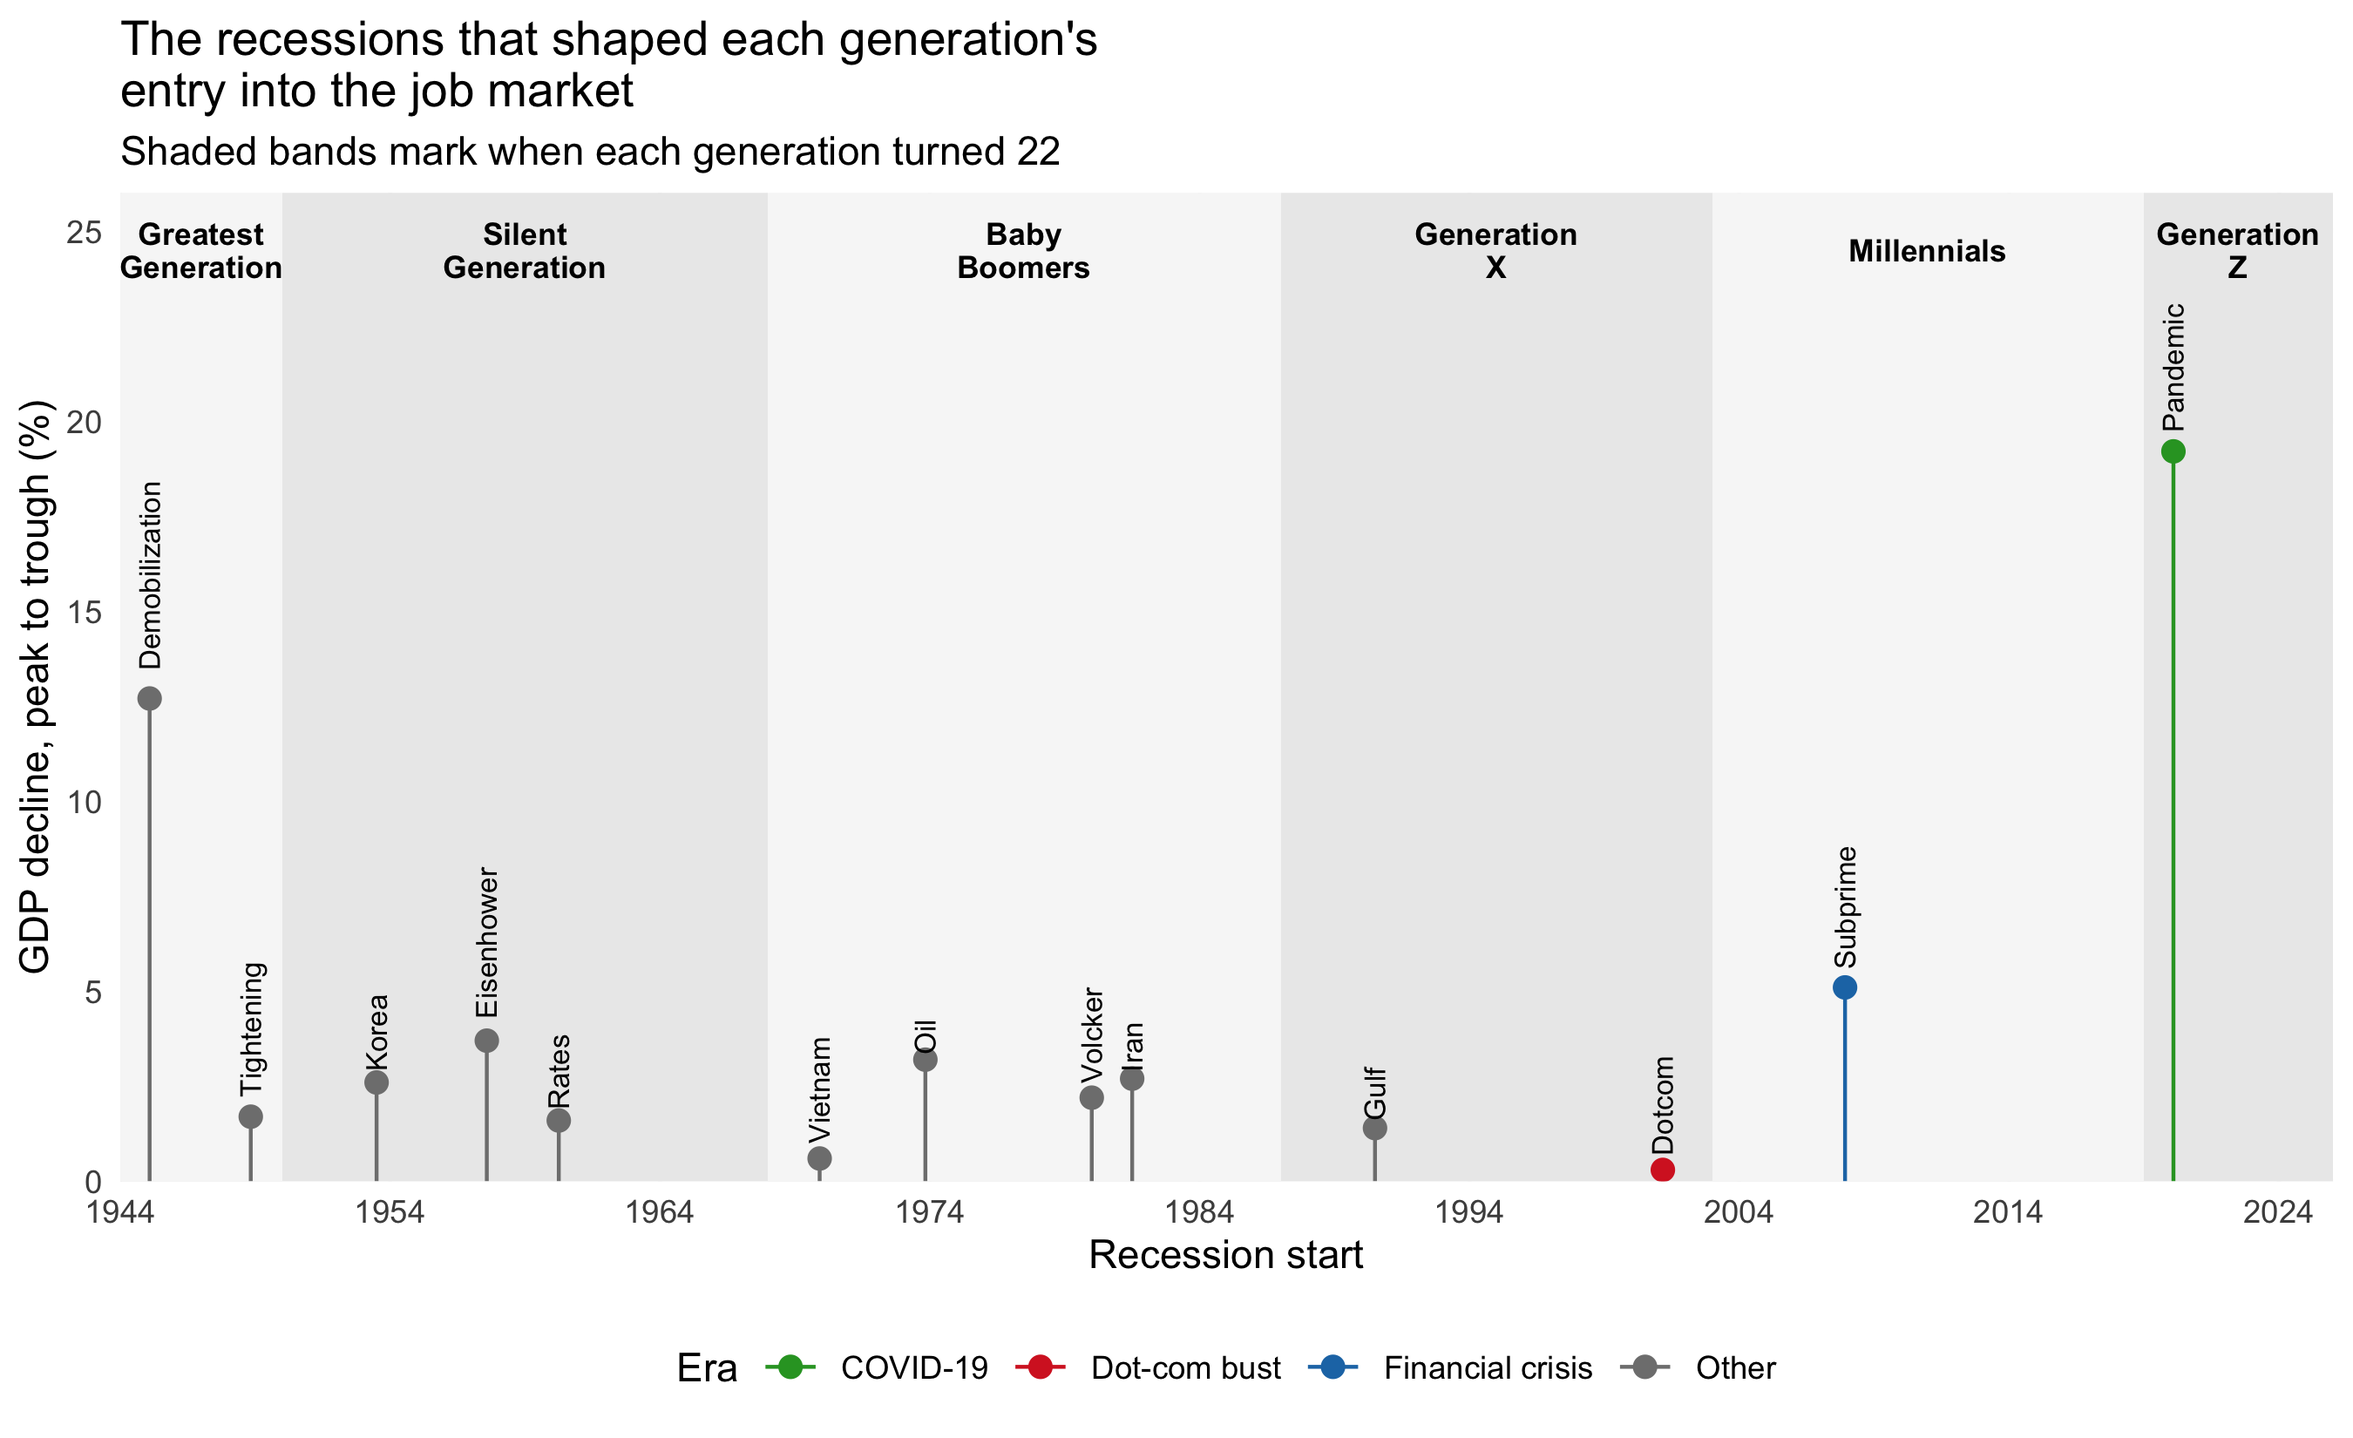
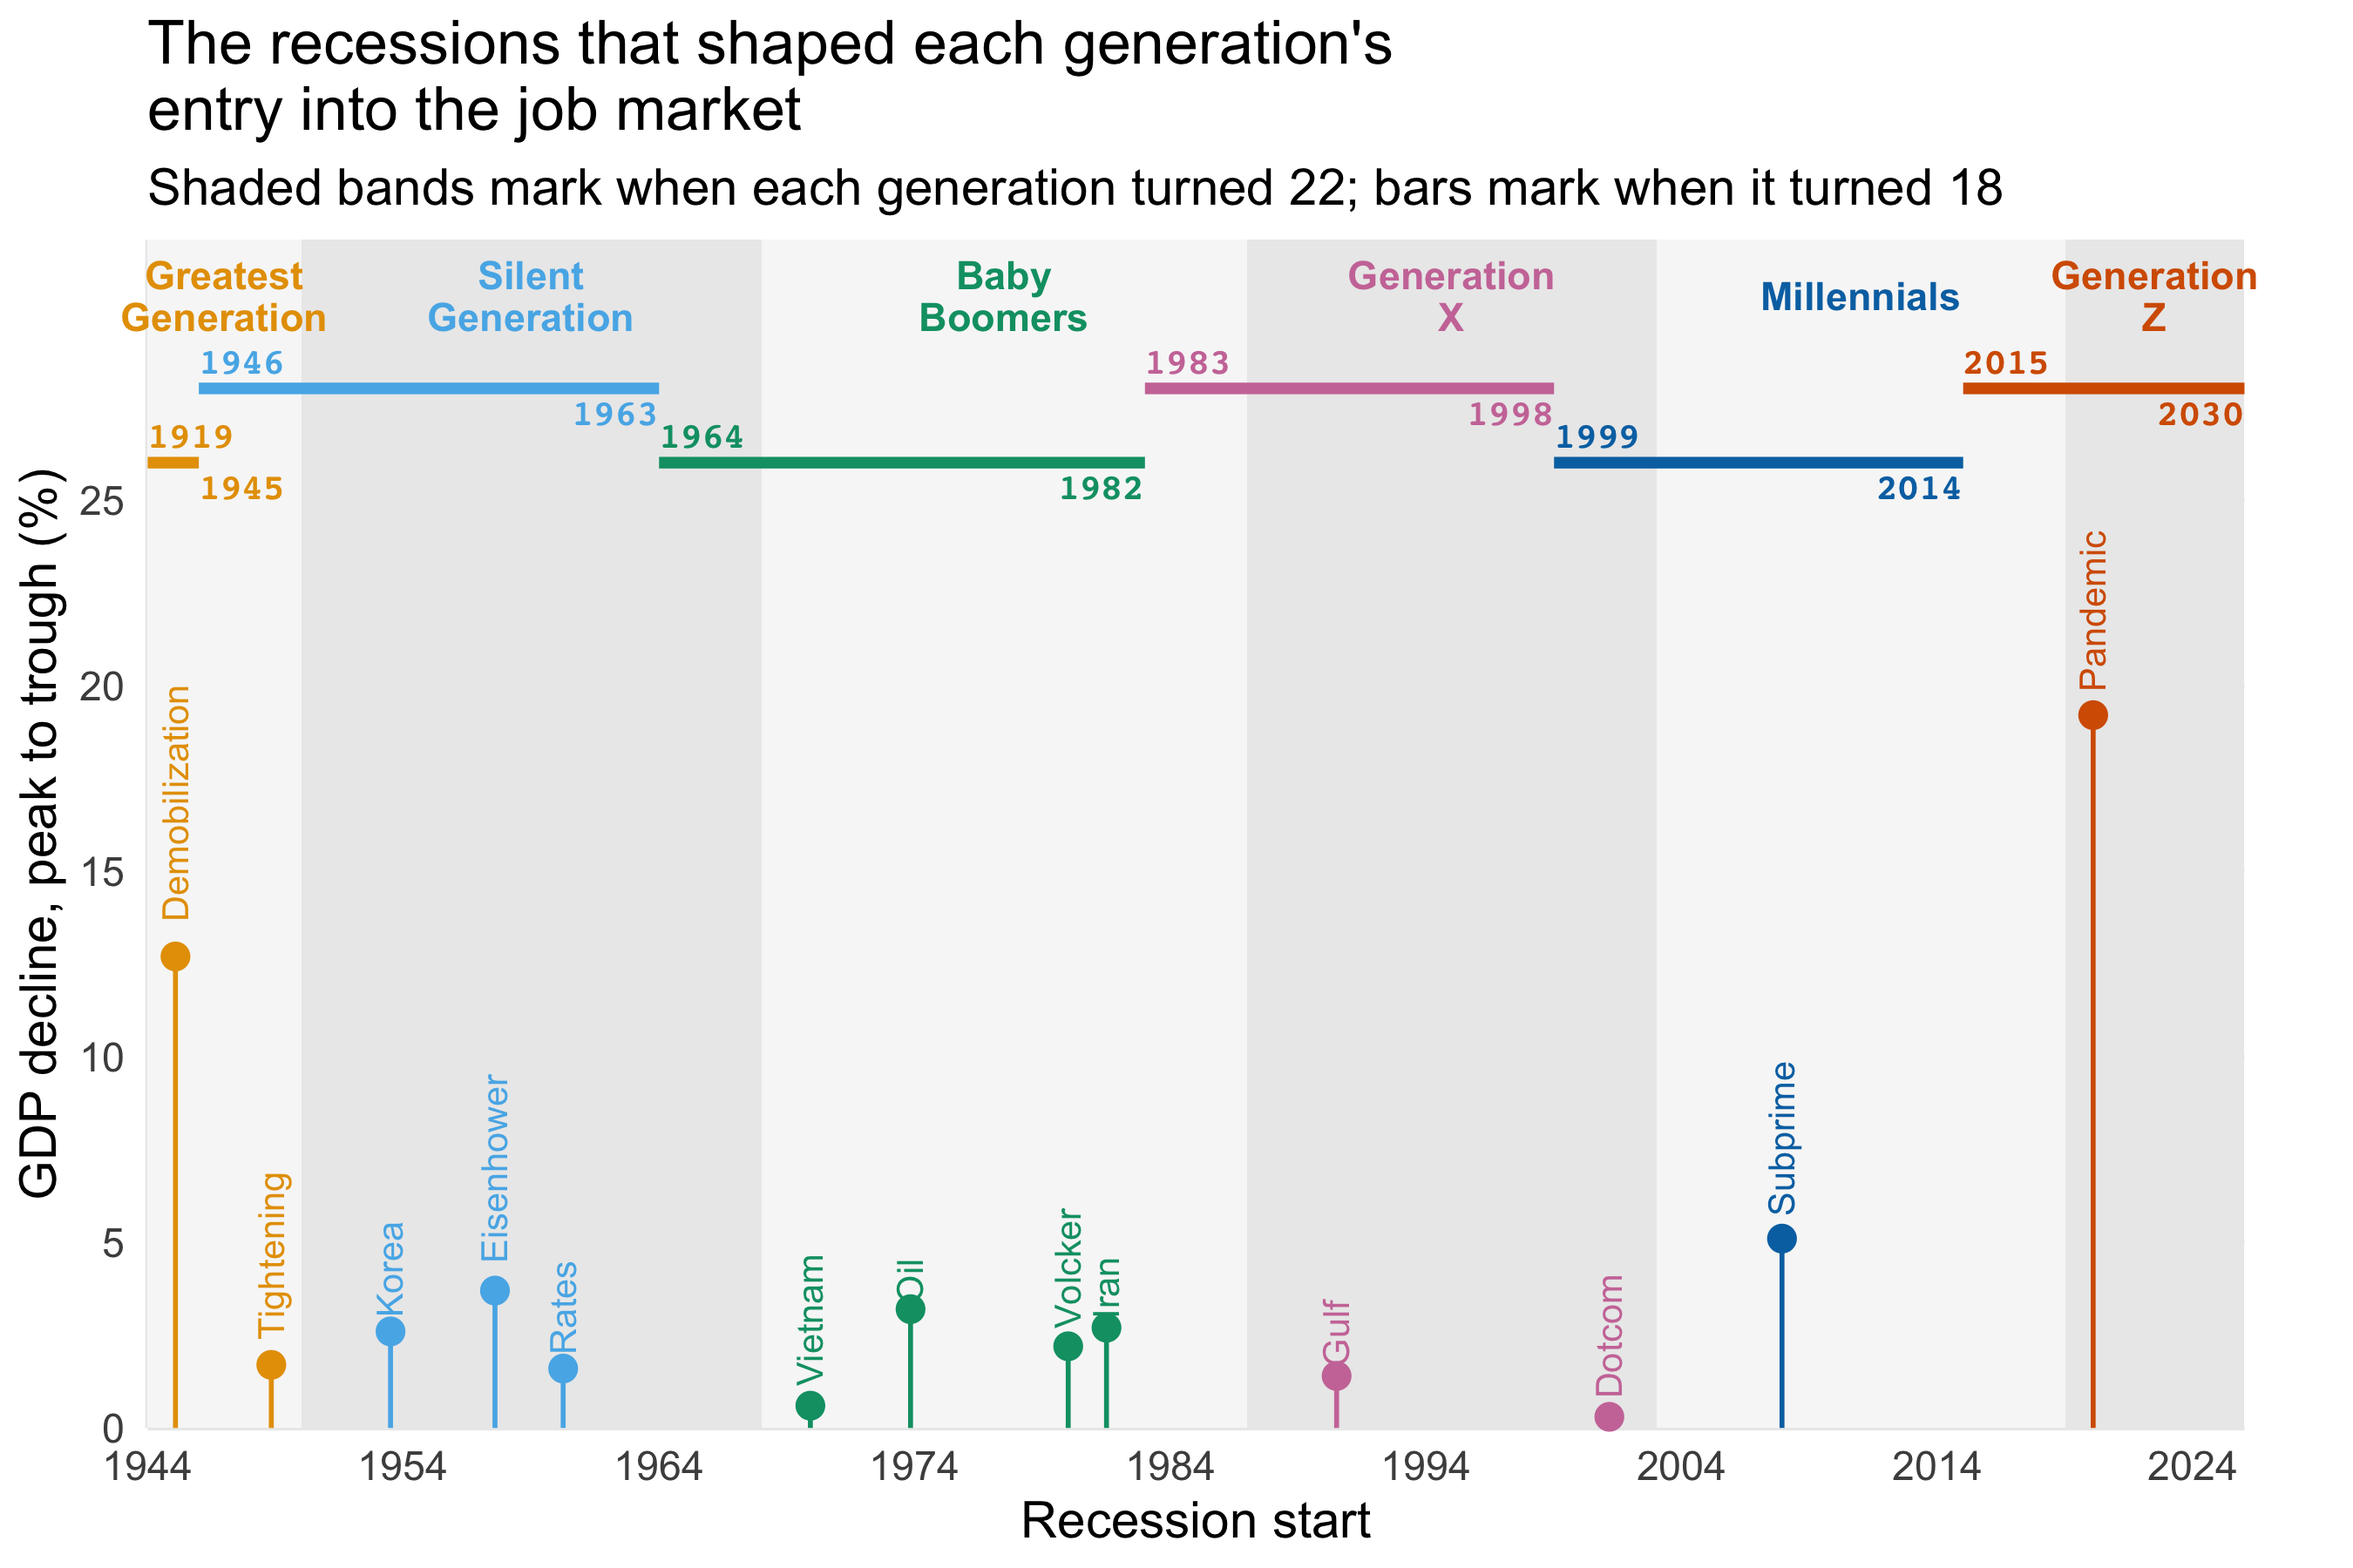
updates to scraping and recession

diff --git a/src/clean_recessions.py b/src/clean_recessions.py
@@ -22,6 +22,10 @@ generations["band_mid"] = (
     generations["band_start"] + (generations["band_end"] - generations["band_start"]) / 2
 ).dt.floor("D")
 generations["shade"] = (generations.index + 1) % 2 == 0
+generations["workforce_start"] = generations["birth_start"] + 18
+generations["workforce_end"] = generations["birth_end"] + 18
+generations["bar_start"] = pd.to_datetime(generations["workforce_start"].clip(lower=1944).astype(str) + "-01-01")
+generations["bar_end"] = pd.to_datetime((generations["workforce_end"].clip(upper=2025) + 1).astype(str) + "-01-01")
 
 names = {
     1945: "Demobilization", 1948: "Tightening", 1953: "Korea", 1957: "Eisenhower",
